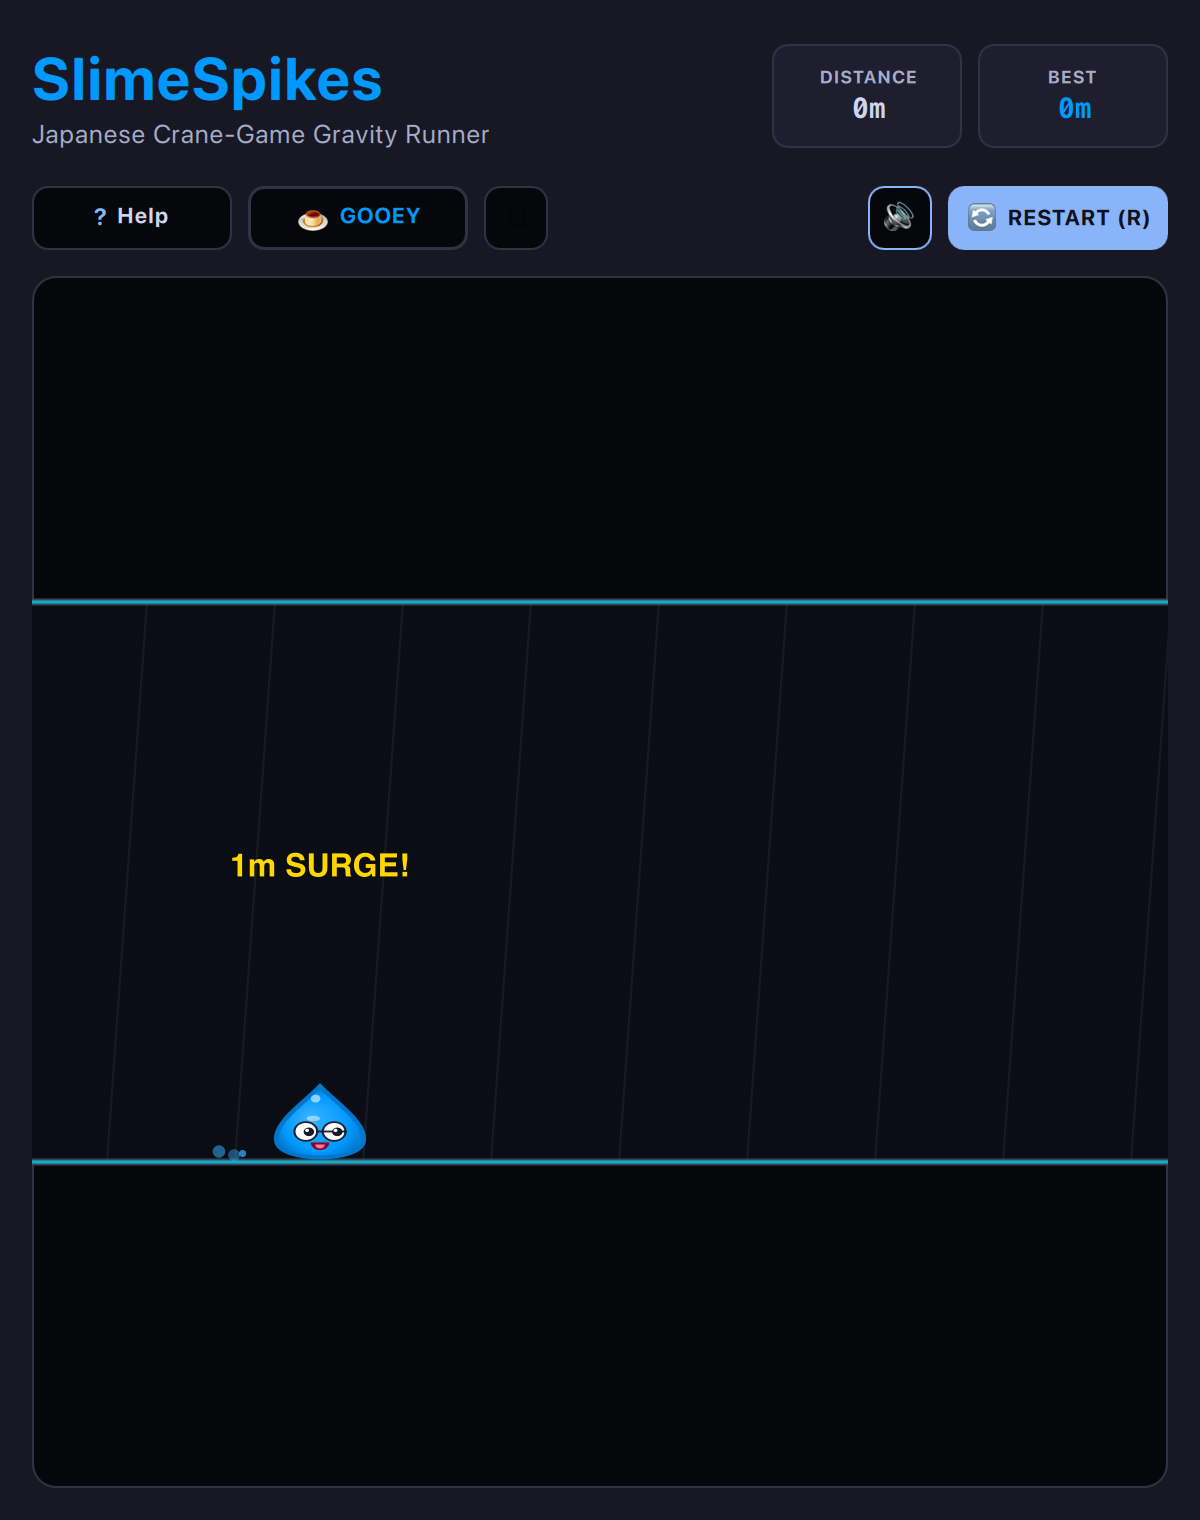
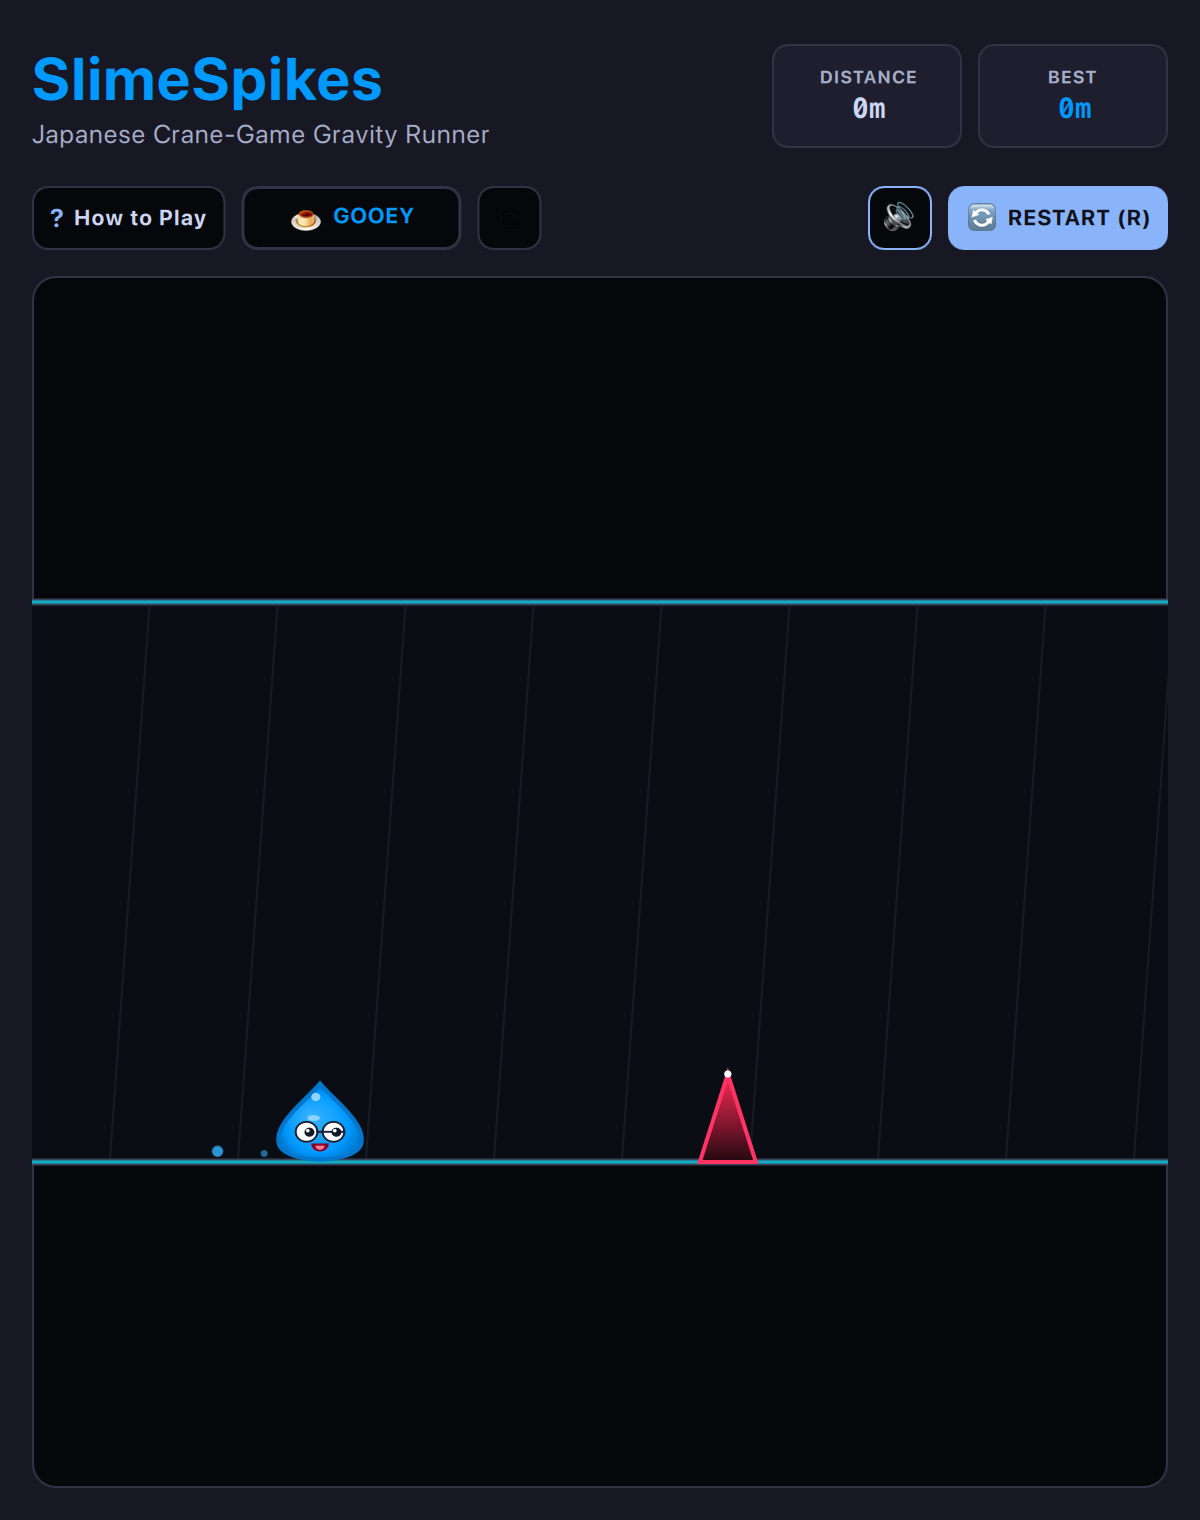
Fix help modal author info, restore template standards, and replace angel with shadow slime

diff --git a/games/slimespikes/main.qml b/games/slimespikes/main.qml
@@ -49,7 +49,7 @@ ApplicationWindow {
     readonly property bool isTiledDesktopMode: fullPlayfield || root.height < 520 || root.width < 440
     property string monoFontFamily: (Qt.platform.os === "osx") ? "Menlo" : "JetBrainsMono Nerd Font"
 
-    property string helpText: "• Tap / Click / Space / W / S: Invert gravity instantly between Floor and Ceiling!\n• Avoid Spikes: Dodge floor spikes by flipping to the ceiling, and ceiling spikes by flipping to the floor!\n• Slime Squash & Stretch: Enjoy bouncy gelatinous spring physics and landing splats!\n• 6 Characters: Press 1-6 or click 'Slimes' to switch between Gooey, Cherry, Lime, Metal, Gold, and Angel!\n• Speed Surge: Speed increases smoothly the further you survive!\n• Instant Restart: Press Space, Enter, or R to dive right back into the action!"
+    property string helpText: "• Flip Gravity: Space, Enter, Up, Down, W, or S\n• Avoid Spikes: Flip between floor and ceiling to dodge hazards\n• Slime Characters: Press 1-6 to switch between Gooey, Cherry, Lime, Metal, Gold, and Shadow\n• Restart: R\n• Sound: M\n• Help: ? or Esc"
 
     signal screenshotSaved(string filePath)
 
@@ -179,7 +179,7 @@ ApplicationWindow {
             if (event.key === Qt.Key_3) { root.selectSlime("lime"); event.accepted = true; return; }
             if (event.key === Qt.Key_4) { root.selectSlime("metal"); event.accepted = true; return; }
             if (event.key === Qt.Key_5) { root.selectSlime("gold"); event.accepted = true; return; }
-            if (event.key === Qt.Key_6) { root.selectSlime("angel"); event.accepted = true; return; }
+            if (event.key === Qt.Key_6) { root.selectSlime("shadow"); event.accepted = true; return; }
 
             if (event.key === Qt.Key_R) {
                 root.restartGame();
@@ -367,20 +367,36 @@ ApplicationWindow {
                 anchors.verticalCenter: parent.verticalCenter
                 spacing: 8
 
-                // How to Play
+                // Help Button
                 Rectangle {
+                    id: helpBtn
                     height: 32
-                    width: subheaderItem.isCrowded ? 32 : 100
+                    width: subheaderItem.isCrowded ? 32 : (helpRow.implicitWidth + 18)
                     radius: 8
                     color: helpMouse.containsMouse ? root.themeCardBg : root.themeBoardBg
                     border.color: helpMouse.containsMouse ? root.themeAccent : root.themeBorder
                     border.width: 1
+                    Behavior on color { ColorAnimation { duration: 150 } }
 
                     Row {
+                        id: helpRow
                         anchors.centerIn: parent
                         spacing: 5
-                        Text { text: "?"; font.pixelSize: 12; font.bold: true; color: root.themeAccent }
-                        Text { text: "Help"; font.pixelSize: 11; font.bold: true; color: root.themeFg; visible: !subheaderItem.isCrowded }
+                        Text {
+                            text: "?"
+                            font.pixelSize: 13
+                            font.bold: true
+                            color: root.themeAccent
+                            anchors.verticalCenter: parent.verticalCenter
+                        }
+                        Text {
+                            text: "How to Play"
+                            font.pixelSize: 11
+                            font.bold: true
+                            color: root.themeFg
+                            anchors.verticalCenter: parent.verticalCenter
+                            visible: !subheaderItem.isCrowded
+                        }
                     }
 
                     MouseArea {
@@ -536,7 +552,7 @@ ApplicationWindow {
                         { id: "lime", name: "Lime (3)", color: "#10E070", key: "3" },
                         { id: "metal", name: "Metal (4)", color: "#C0C8D8", key: "4" },
                         { id: "gold", name: "Gold (5)", color: "#FFB800", key: "5" },
-                        { id: "angel", name: "Angel (6)", color: "#F0F4FF", key: "6" }
+                        { id: "shadow", name: "Shadow (6)", color: "#A855F7", key: "6" }
                     ]
 
                     Rectangle {
@@ -871,14 +887,15 @@ ApplicationWindow {
         }
 
         // =====================================================================
-        // HOW TO PLAY MODAL (Layered above pause screen at z: 1100)
+        // MODALS & OVERLAYS (Help, Game Over, Sound Toast)
         // =====================================================================
+        // Help Modal
         Rectangle {
             id: helpModal
             anchors.fill: parent
-            color: "#e6000000"
+            color: "#b3000000"
             visible: root.showHelp
-            z: 1100
+            z: 900
 
             MouseArea {
                 anchors.fill: parent
@@ -886,12 +903,12 @@ ApplicationWindow {
             }
 
             Rectangle {
-                width: Math.min(parent.width * 0.88, 460)
-                height: helpCol.height + 44
+                width: Math.min(parent.width * 0.88, 380)
+                height: helpCol.height + 40
                 anchors.centerIn: parent
                 color: root.themeCardBg
-                border.color: root.themeAccent
-                border.width: 1.5
+                border.color: root.themeBorder
+                border.width: 1
                 radius: 12
 
                 Column {
@@ -910,7 +927,7 @@ ApplicationWindow {
 
                     Text {
                         text: root.helpText
-                        font.pixelSize: 11
+                        font.pixelSize: 12
                         color: root.themeFg
                         lineHeight: 1.4
                         width: parent.width
@@ -938,7 +955,7 @@ ApplicationWindow {
                     }
 
                     Text {
-                        text: "SlimeSpikes • Omarchy Arcade"
+                        text: "Created by Chris Thompson (@bigcjat) with Gemini"
                         font.pixelSize: 9
                         color: root.themeSubtext
                         anchors.horizontalCenter: parent.horizontalCenter

diff --git a/games/slimespikes/GameEngine.js b/games/slimespikes/GameEngine.js
@@ -92,18 +92,18 @@ var SLIME_CHARACTERS = {
         hasCrown: true,
         hasBlush: false
     },
-    angel: {
-        id: "angel",
-        name: "ANGEL",
-        tagline: "Heavenly Winged Slime",
-        color: "#F0F4FF",
-        coreColor: "#FFFFFF",
-        glowColor: "#B0C0E0",
-        mouthColor: "#D9446A",
-        particleColor: "#FFFFFF",
-        hasWings: true,
+    shadow: {
+        id: "shadow",
+        name: "SHADOW",
+        tagline: "Midnight Phantom Slime",
+        color: "#3B2D54",
+        coreColor: "#58427C",
+        glowColor: "#211832",
+        mouthColor: "#9C27B0",
+        particleColor: "#A855F7",
+        hasWings: false,
         hasCrown: false,
-        hasBlush: true
+        hasBlush: false
     }
 };
 
@@ -737,43 +737,7 @@ function drawSlime(ctx, s, charId, themeAccent) {
     var w = s.width;
     var h = s.height;
 
-    // 1. Little Wings for Angel Slime
-    if (charData.hasWings) {
-        var flap = Math.sin(gameTime * 24) * 0.25;
-        ctx.save();
-        ctx.fillStyle = "#FFFFFF";
-        ctx.strokeStyle = "#C8D8F0";
-        ctx.lineWidth = 1.2;
-        // Left Wing
-        ctx.save();
-        ctx.translate(-w * 0.45, 0);
-        ctx.rotate(-0.35 + flap);
-        ctx.beginPath();
-        ctx.ellipse(0, 0, 10, 5, 0, 0, Math.PI * 2);
-        ctx.fill();
-        ctx.stroke();
-        ctx.restore();
-        // Right Wing
-        ctx.save();
-        ctx.translate(w * 0.45, 0);
-        ctx.rotate(0.35 - flap);
-        ctx.beginPath();
-        ctx.ellipse(0, 0, 10, 5, 0, 0, Math.PI * 2);
-        ctx.fill();
-        ctx.stroke();
-        ctx.restore();
-
-        // Halo
-        ctx.strokeStyle = "#FFD700";
-        ctx.lineWidth = 1.8;
-        ctx.beginPath();
-        ctx.ellipse(0, -h * 0.65, 11, 4, 0, 0, Math.PI * 2);
-        ctx.stroke();
-
-        ctx.restore();
-    }
-
-    // 2. Crown for Gold Slime
+    // Crown for Gold Slime
     if (charData.hasCrown) {
         ctx.save();
         ctx.fillStyle = "#FFEE55";
@@ -836,7 +800,7 @@ function drawSlime(ctx, s, charId, themeAccent) {
     ctx.fill();
     ctx.restore();
 
-    // 5. Blush Cheeks (for Cherry / Angel)
+    // Blush Cheeks (for Cherry)
     if (charData.hasBlush) {
         ctx.fillStyle = "rgba(255, 80, 120, 0.40)";
         // Left Blush

diff --git a/games/slimespikes/README.md b/games/slimespikes/README.md
@@ -16,7 +16,7 @@ Built natively with hardware acceleration for **Omarchy Linux** and tiling windo
   * **Lime (`#76FF03` Neon Green):** A fizzy citrus drop featuring glowing neon highlights.
   * **Metal (`#E0E0E0` Chrome Silver):** A rare polished liquid-metal slime with high-specular reflective gleam.
   * **Gold (`#FFD700` Amber King):** A prestigious royal slime crowned with a 3-point gold crown and sparkling ruby gem.
-  * **Angel (`#F3E5F5` Pearl White):** A heavenly seraph slime sporting fluttering feathered wings and a floating golden halo.
+  * **Shadow (`#4B3869` Midnight Plum):** A sleek phantom slime shrouded in rich obsidian purple with bright white eyes.
 * **Organic Squash & Stretch Physics:**
   * Procedural Bezier teardrop geometry with pointed top swirl tip and chubby bottom cheeks.
   * Launch elongation ($scaleY: 1.65, scaleX: 0.62$) pulling the slime like molten taffy during flips.
